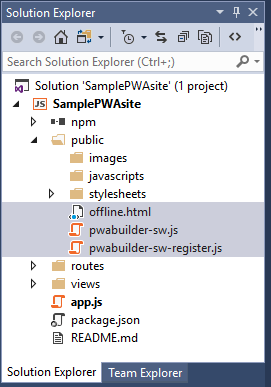
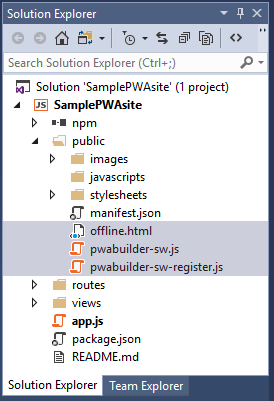
Web manifest destiny

Changed region(s): [[0.0, 0.0, 1.0, 0.9922], [0.3838, 0.9302, 0.679, 0.9922]]

diff --git a/microsoft-edge/progressive-web-apps/get-started.md b/microsoft-edge/progressive-web-apps/get-started.md
@@ -2,10 +2,10 @@
 
 Progressive Web Apps (PWAs) are simply web apps that are [progressively enhanced](https://en.wikipedia.org/wiki/Progressive_enhancement) with native app-like features on supporting platforms and browser engines, such as launch-from-homescreen installation, offline support, and push notifications. On Windows 10 with the Microsoft Edge (EdgeHTML) engine, PWAs enjoy the added advantage of running independently of the browser window as [Universal Windows Platform](https://docs.microsoft.com/en-us/windows/uwp/get-started/whats-a-uwp) apps.
 
-Follow this guide to turn a simple, *localhost* web app into an installable PWA for testing and debugging on Windows with Visual Studio.
+This guide will give you an overview of PWA basics by building a simple *localhost* web app as a PWA using *Microsoft Visual Studio* and some *PWA Builder* utilities.
 
 > [!TIP]
-> If you have an existing live site and want to convert it to a PWA for  Windows 10 and other app platforms, check out [PWA Builder](https://www.pwabuilder.com/). 
+> For a quick way to convert an existing site to a PWA and package it for Windows 10 and other app platforms, check out [PWA Builder](https://www.pwabuilder.com/). 
 
 ## Prerequisites
 
@@ -36,7 +36,72 @@ Now its time to wire up the basic [PWA requirements](../progressive-web-apps.md#
 
 ### Web App Manifest
 
+A [*Web App Manifest*](https://developer.mozilla.org/en-US/docs/Web/Manifest) is a JSON metadata file describing your app, including its name, author, entry page URL, and icon(s). Because it follows a [standards-based schema](https://www.w3.org/TR/appmanifest/), you need only supply a single web app manifest for your PWA to be installable on any platform / OS / device that supports PWAs. In the Windows ecosystem, your web app manifest signals to the Bing web indexer that your PWA is a candidate for [automatic inclusion in the Microsoft Store](./microsoft-store.md), where it can reach nearly 700 million active monthly users as a Windows 10 app.
 
+If this were an existing live site, you could quickly generate a web app manifest using [PWA Builder](https://www.pwabuilder.com/). Since its still an unpublished project, we'll copy in a sample manifest.
+
+1. In the Visual Studio *Solution Explorer*, right-click the *public* folder and select **Add** > **New File...**, specifying `manifest.json` as the item name.
+
+2. In the *manifest.json* file, copy in the following boilerplate:
+
+    ```JSON
+    {
+        "dir": "ltr",
+        "lang": "en-us",
+        "name": "My Sample PWA",
+        "scope": "/",
+        "display": "browser",
+        "start_url": "https://PLACEHOLDER-FOR-PWA-URL",
+        "short_name": "SamplePWA",
+        "theme_color": "transparent",
+        "description": "A sample PWA for testing purposes",
+        "orientation": "any",
+        "background_color": "transparent",
+        "related_applications": [],
+        "prefer_related_applications": false,
+        "icons": []
+    }
+    ```
+    If this were a real PWA, you'd obviously want to customize at least the *name*, *start_url*, *short_name*, and *description*, as well as the *icons* (which we'll get to next). 
+
+    See the [Web App Manifest](https://developer.mozilla.org/en-US/docs/Web/Manifest
+) reference on *MDN web docs* to learn more about the different member values and their purpose.
+
+3. Next we need to fill in the empty `icons` array with actual image paths. For that, we'll use PWA Builder's *App Image Generator*.
+
+    1. Save down this [sample 512x512 PWA image]() from your web browser.
+
+    2. Go to the PWA Builder [App Image Generator](https://appimagegenerator-prod.azurewebsites.net/), and select the *pwa.png* image you just saved as the **Input Image** and then click the **Download** button.
+
+    3. **Open** and **Extract** the zip file.
+    
+    4. In the Visual Studio *Solution Explorer*, right-click the *public* folder and **Open Folder in File Explorer**. Create a **New folder** named *images*.
+    
+    5. Copy all of the platform folders (*android*, *chrome*, ...*windows10*) from your extracted zip to the *images* folder and close the file explorer window. Add these folders to your Visual Studio project (in *Solution Explorer*, right-click *images* folder and select **Add** > **Existing folder...** for each of the folders.)
+
+    6. Open (with Visual Studio or any editor) the *icons.json* file from the extracted zip and copy the `"icons": [...]` array into your project's *manifest.json* file.
+
+4. Now we just need to associate our web app manifest with the app itself. Open the *layout.pug* file (in *views* folder) for editing, and add this line right after the stylesheet link. (Its simply Node's [pug](https://pugjs.org/language/attributes.html) template shorthand for `<link rel='manifest' href='/manifest.json'>`).
+
+    ```
+    link(rel='manifest', href='/manifest.json')
+    ``` 
+
+With all that in place, your web app is now serving up a manifest and homescreen-ready app icons! Try running your app (F5) and loading up the manifest:
+
+![Web app manifest loading from localhost](./media/vs-nodejs-express-manifest.png)
+
+And one of your icons:
+
+![Square71x71Logo app logo loading from localhost](./media/vs-nodejs-express-icon.png)
+
+If your app were published live (with an actual `start_url`), the Bing search engine could now identify it as a candidate for [automatic packaging and submission to the Microsoft Store](./microsoft-store.md) as an installable Windows 10 app. Just make sure that your manifest includes the [*Quality signals for Progressive Web Apps*](https://blogs.windows.com/msedgedev/2018/02/06/welcoming-progressive-web-apps-edge-windows-10/#4UOdrDJj3124VIkc.97) that Bing will be scanning for:
+
+ - name
+ - description
+ - at least one icon larger than 512px square
+
+ ...in addition to being [HTTPS](#https), using [service workers](#service-workers), complying with [Microsoft Store Policies](https://docs.microsoft.com/en-us/legal/windows/agreements/store-policies).
 
 ### HTTPS
 
@@ -108,6 +173,12 @@ For this tutorial, we'll use a ready-made "Offline page" service worker script c
 
     ![offline.html from http://localhost:1337 loaded in Microsoft Edge](./media/offline-html.png)
 
+ Of course, there's a lot more that goes into [making a great PWA](../progressive-web-apps.md#requirements), including responsive design, deep-linking, cross-browser testing and other best practices (not to mention *actual* app functionality!), but hopefully this guide gave you a solid introduction of PWA basics and some ideas on getting started with PWA development.
+
+This guide demonstrated how PWAs run in the Microsoft Edge browser. Check out the [*Tailor your PWA for Windows*](./windows-features.md) guide to install and run your PWA as a standalone Windows 10 app.
+
+If you have further questions on PWA development with Windows and/or Visual Studio, please leave a comment!
+
 ## Going further
 
 Check out our other PWA guides to learn how to increase customer engagement and provide a more seamless, OS-integrated app experience:
@@ -118,4 +189,4 @@ Check out our other PWA guides to learn how to increase customer engagement and 
 
  - [**PWAs in the Microsoft Store.**](./microsoft-store.md) Learn more about the benefits of app store distribution and how to submit your PWA.
 
-Also be sure to explore the great resources from around the dev community! [MDN web docs](https://developer.mozilla.org/en-US/Apps/Progressive/) and [Google Developers](https://developers.google.com/web/progressive-web-apps/) have excellent guides on *Progressive Web Apps*. https://pwa.rocks/ showcases real-world examples of PWAs, and https://hnpwa.com/ compares different frameworks and performance patterns for implementing a sample (*Hacker News* reader) PWA.
+Also be sure to explore the great resources from around the dev community! [MDN web docs](https://developer.mozilla.org/en-US/Apps/Progressive/) and [Google Developers](https://developers.google.com/web/progressive-web-apps/) have excellent guides on Progressive Web Apps. https://pwa.rocks/ showcases real-world examples of PWAs, and https://hnpwa.com/ compares different frameworks and performance patterns for implementing a sample (*Hacker News* reader) PWA.
